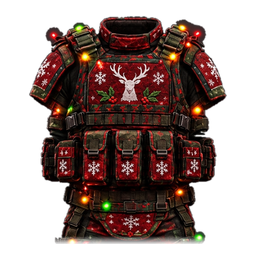
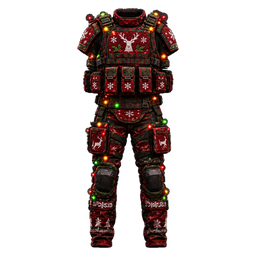
Mostrar o Colete Natalino vestido no personagem (opção só dele)
- VESTS[10].wear = "cl_colete_natal": camada 3D renderizada no Roger
  (img/gear/cl_colete_natal_<pose>.png e img/portrait_cl_colete_natal.png)
- playerGear(): a camada entra por cima da roupa e embaixo da capa e da
  máscara (gearOrder: cl_colete = -0.25), no mundo e no retrato
- save.vestShow (padrão: mostrar) e botão "Vestido / Oculto" embaixo do
  slot do colete, que só aparece para coletes com modelo vestido
- Ícone vest10.png agora mostra o traje de corpo inteiro

As camadas da roupa ainda precisam ser renderizadas no Blender
(fronteiraMorta_src/render_colete_natal.ps1). Sem elas o jogo segue
normal, só sem o colete no corpo.

Claude-Session: https://claude.ai/code/session_01VhRDF7D8pn9SFSqmNddPa1

diff --git a/js/save.js b/js/save.js
@@ -6,7 +6,7 @@
 const SAVE_KEY = "fronteira-morta";
 const save = {
   bank: 0, vault: [], vaultRows: 5, installed: [], implantPresets: [], credits: 0, gm: false, vipUntil: 0, trindadeUntil: 0, shopFreeUntil: 0, missions: [], receivedGifts: [], inbox: [],
-  vest: -1, fmInventoryOrder: [], clothing: { jacket: null, pants: null, boots: null, pack: null }, outposts: OUTPOSTS.map((o, i) => i === 0), muted: false, hud: 0, skin: 0, cape: 0, prof: null, name: "", classicChar: false, vestDur: {}, vestUpgrades: {}, music: true, gfx: 2, ambientVolume: 0.55, brightness: 1.0,
+  vest: -1, fmInventoryOrder: [], clothing: { jacket: null, pants: null, boots: null, pack: null }, outposts: OUTPOSTS.map((o, i) => i === 0), muted: false, hud: 0, skin: 0, cape: 0, prof: null, name: "", classicChar: false, vestDur: {}, vestUpgrades: {}, vestShow: true, music: true, gfx: 2, ambientVolume: 0.55, brightness: 1.0,
   stats: {}, story: 0, ach: {}, daily: null, coll: [], vestsOwned: VESTS.map(() => false), vestVer: 2,
   char: { level: 1, xp: 0, points: 0, wpoints: 0, attrs: defaultAttrs() }
 };
@@ -88,7 +88,7 @@ function loadSave() {
     for (let i = 0; i < VESTS.length; i++) if (save.vestsOwned[i])
       save.vestUpgrades[i] = cleanVestUpgrade(s.vestUpgrades && s.vestUpgrades[i]);
     save.outposts = OUTPOSTS.map((o, i) => i === 0 || !!(s.outposts && s.outposts[i]));
-    save.muted = !!s.muted; save.hud = s.hud === 1 ? 1 : 0; save.skin = clamp(s.skin | 0, 0, SKINS.length - 1); save.clothing = clothingClean(s.clothing); save.cape = clamp(s.cape | 0, 0, CAPES.length - 1); save.prof = typeof s.prof === "string" ? s.prof : null; save.name = typeof s.name === "string" ? s.name.slice(0, 16) : ""; save.classicChar = false; // Somente o novo boneco está disponível.
+    save.muted = !!s.muted; save.hud = s.hud === 1 ? 1 : 0; save.skin = clamp(s.skin | 0, 0, SKINS.length - 1); save.clothing = clothingClean(s.clothing); save.cape = clamp(s.cape | 0, 0, CAPES.length - 1); save.vestShow = s.vestShow !== false; save.prof = typeof s.prof === "string" ? s.prof : null; save.name = typeof s.name === "string" ? s.name.slice(0, 16) : ""; save.classicChar = false; // Somente o novo boneco está disponível.
     save.vestDur = s.vestDur && typeof s.vestDur === "object" ? s.vestDur : {};
     save.music = s.music !== false;
     // sliders do menu: dados antigos recebem padrões seguros

diff --git a/js/perspective.js b/js/perspective.js
@@ -334,7 +334,7 @@ function playerGear() {
     // máscara + capa com capuz: camada da máscara já recortada pelo capuz (gear/<máscara>_capuz_<pose>.png)
     const cape = wear("cape"), mask = wear("mask");
     // moletom (jaqueta 3D) por baixo da capa e da máscara
-    return [wear("boots"), wear("pants"), wear("jacket"), cape, mask && cape === "cape_hood" ? mask + "_capuz" : mask].filter(Boolean);
+    return [wear("boots"), wear("pants"), wear("jacket"), vestWearLayer(), cape, mask && cape === "cape_hood" ? mask + "_capuz" : mask].filter(Boolean);
   }
   const list = [];
   const hat = wear("hat"), mask = wear("mask");
@@ -353,7 +353,7 @@ function playerGear() {
 // ordem das camadas: calça e botas embaixo de tudo; de frente a capa vai primeiro (fica atrás); de
 // lado/costas o colete vai antes, depois a capa por cima dele e a mochila por cima da capa. Cabeça por último.
 function gearOrder(list, back) {
-  const rank = (id) => id.startsWith("cl_boots") ? -2 : id.startsWith("cl_pants") ? -1 : id.startsWith("cl_jacket") || id.startsWith("cl_moletom") ? -0.5 : id.startsWith("cape") ? (back ? 1 : 0) :
+  const rank = (id) => id.startsWith("cl_boots") ? -2 : id.startsWith("cl_pants") ? -1 : id.startsWith("cl_jacket") || id.startsWith("cl_moletom") ? -0.5 : id.startsWith("cl_colete") ? -0.25 : id.startsWith("cape") ? (back ? 1 : 0) :
     id.startsWith("vest") ? (back ? 0 : 1) : id === "pack" || id.startsWith("cl_pack") ? 2 : 3;
   return list.slice().sort((a, b) => rank(a) - rank(b));
 }

diff --git a/js/config.js b/js/config.js
@@ -95,8 +95,14 @@ const VESTS = [
   // creditsVip = preço para VIP (Membros Gold) · repairLevel = nível mínimo para consertar ·
   // scrap/scrapMC = valor fixo no Ferro Velho (MC = melhorias no máximo) · upCost = preço de cada melhoria
   { name: "Colete Tático Natalino",         armor: 75, credits: 2000, creditsVip: 1500, color: "#8a1f1f", rar: 4,
-    dur: 350, repairLevel: 75, scrap: 128250, scrapMC: 256500, upCost: 67000 }
+    dur: 350, repairLevel: 75, scrap: 128250, scrapMC: 256500, upCost: 67000,
+    wear: "cl_colete_natal" }   // wear = camada 3D vestida no personagem (img/gear/<wear>_<pose>.png e img/portrait_<wear>.png)
 ];
+// camada 3D do colete equipado, se ele tiver uma e o jogador quiser mostrar vestido (só o Natalino tem)
+function vestWearLayer() {
+  const v = save.vest >= 0 ? VESTS[save.vest] : null;
+  return v && v.wear && save.vestShow !== false ? v.wear : null;
+}
 // quantos pontos de durabilidade o colete tem (100 nos antigos)
 function vestMaxDur(i) { return (VESTS[i] && VESTS[i].dur) || 100; }
 // preço em créditos (VIP paga o preço de membro quando existe)

diff --git a/js/paperdoll.js b/js/paperdoll.js
@@ -527,6 +527,12 @@ function drawInventory() {
   equippedClothingSlot(296, 268, "pants");
   if (clothingGet("mask")) equippedClothingSlot(606, 104, "mask"); else outfitSlot(606, 104, 58, 58, hp.mask ? hp.mask.name : "Máscara", hp.mask);
   slotBox(606, 186, 58, 58, "Colete", { area: "vestslot", type: "vest", item: save.vest >= 0 ? { i: save.vest } : null });
+  // só coletes com modelo vestido (Natalino): escolher se aparece no personagem
+  if (save.vest >= 0 && VESTS[save.vest].wear) {
+    const on = save.vestShow !== false;
+    txt(on ? "◉ Vestido" : "○ Oculto", 635, 258, 10, on ? "#ffd96a" : "#8f8a72", "center", true);
+    regClick(606, 246, 58, 18, () => { save.vestShow = !on; persist(); toast(on ? "Colete escondido no personagem" : "Colete aparecendo no personagem"); });
+  }
   equippedClothingSlot(606, 268, "boots");
   equippedClothingSlot(674, 104, "pack");
   regClick(674, 104, 58, 58, () => { INV.backpackPicker = true; });
